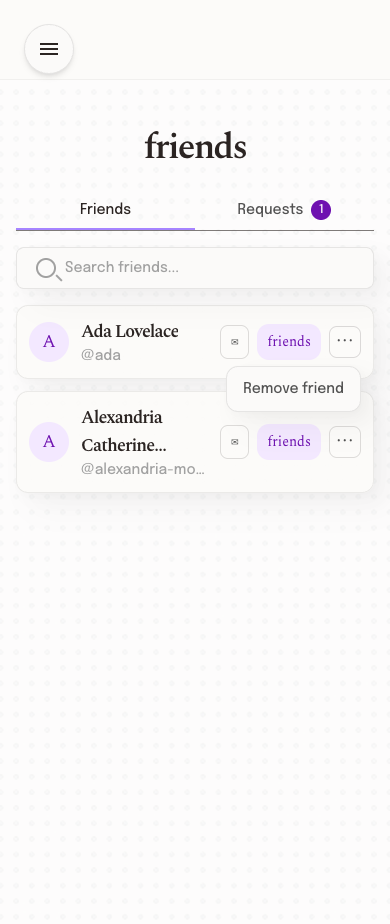
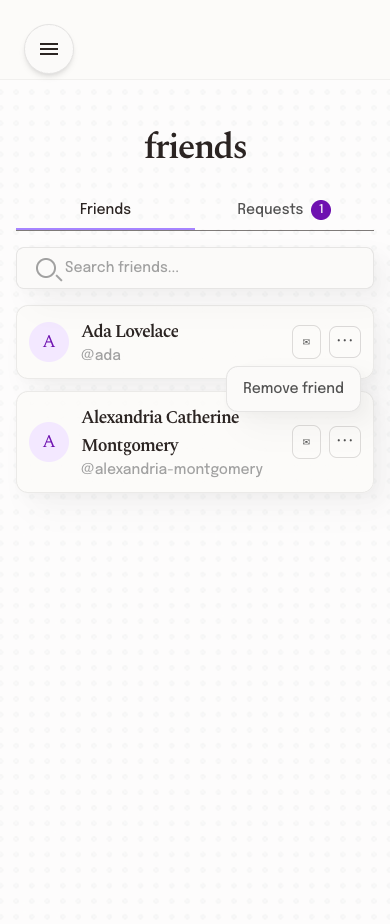
docs: show simplified friends and aligned request actions

diff --git a/review/README.md b/review/README.md
@@ -2,9 +2,9 @@
 
 Screenshots for the restyled Friends and Messages screens in [PR #149](https://github.com/UOA-CS734-S2-2026/project-implementation-may-gan/pull/149). This is a review-only branch. The PNGs do not belong in the application PR.
 
-The Friends images show feature HEAD `f8a0955` in production-mode Chromium at 1440x900 and 390x844. The Messages, Requests and new-conversation images were captured earlier; those screens did not change in the final Friends-menu commit. Auth and API responses were mocked. Browser checks found no console errors or horizontal overflow. The [Friends-menu QA result](friends-menu-qa-report.txt) covers the separate actions button and the inert status badge. The [Messages width check](web-qa-report.md) covers the earlier captures.
+The Friends, Message Requests and collision-safe profile images show feature HEAD `05f9781` in production-mode Chromium at 1440x900 and 390x844. The unchanged Messages list, Friend Requests and new-conversation images came from earlier builds. Auth and API responses were mocked. The [latest QA result](social-review-qa-report.txt) confirms the removed Friends badge, separate actions menu, request buttons aligned below the preview, a `/u/messages` profile, and no console errors or horizontal overflow. The [Messages width check](web-qa-report.md) covers the earlier list capture.
 
-Flutter unit and widget tests passed after the menu change. An updated native image with readable text was not available, so the earlier Flutter widget screenshots have been removed. Emulator, phone and authenticated staging checks remain outstanding.
+Flutter unit and widget tests passed after these changes. A fresh native image with readable text was not available, so older Flutter widget screenshots have been removed. Emulator, phone and authenticated staging checks remain outstanding.
 
 ## Web desktop
 
@@ -22,4 +22,4 @@ Flutter unit and widget tests passed after the menu change. An updated native im
 | ![Friend actions menu mobile](screenshots/web/mobile-friends-menu-open.png) | ![Message requests mobile](screenshots/web/mobile-message-requests.png) |
 | ![Friend requests mobile](screenshots/web/mobile-friend-requests.png) | |
 
-The [new-conversation picker](screenshots/web/desktop-new-picker.png) and [new-pair draft](screenshots/web/desktop-new-pair-draft.png) are also included.
+The [new-conversation picker](screenshots/web/desktop-new-picker.png), [new-pair draft](screenshots/web/desktop-new-pair-draft.png), and collision-safe profile at [desktop](screenshots/web/desktop-claimed-messages-profile.png) and [mobile](screenshots/web/mobile-claimed-messages-profile.png) are also included.
